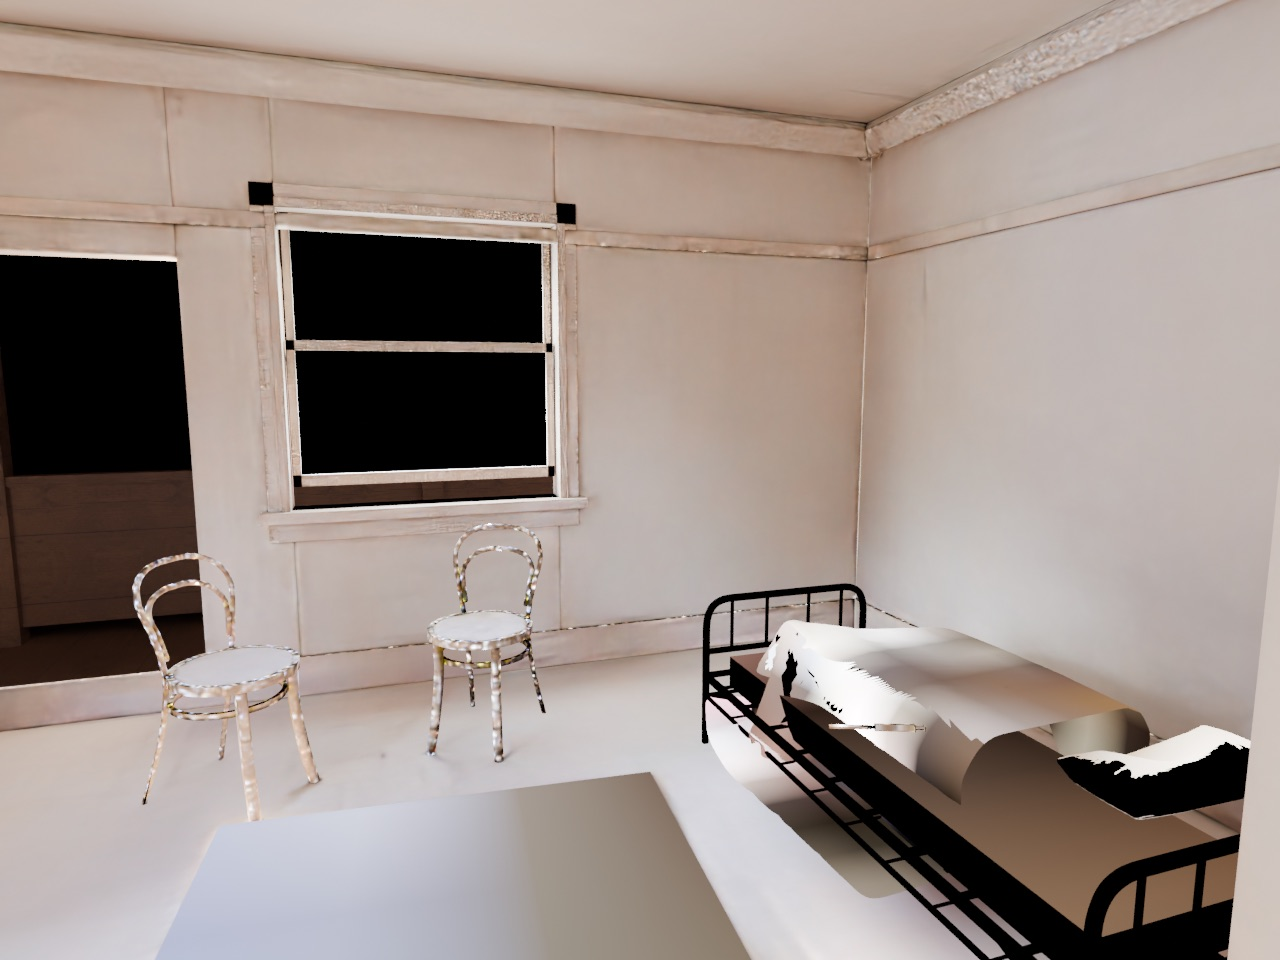
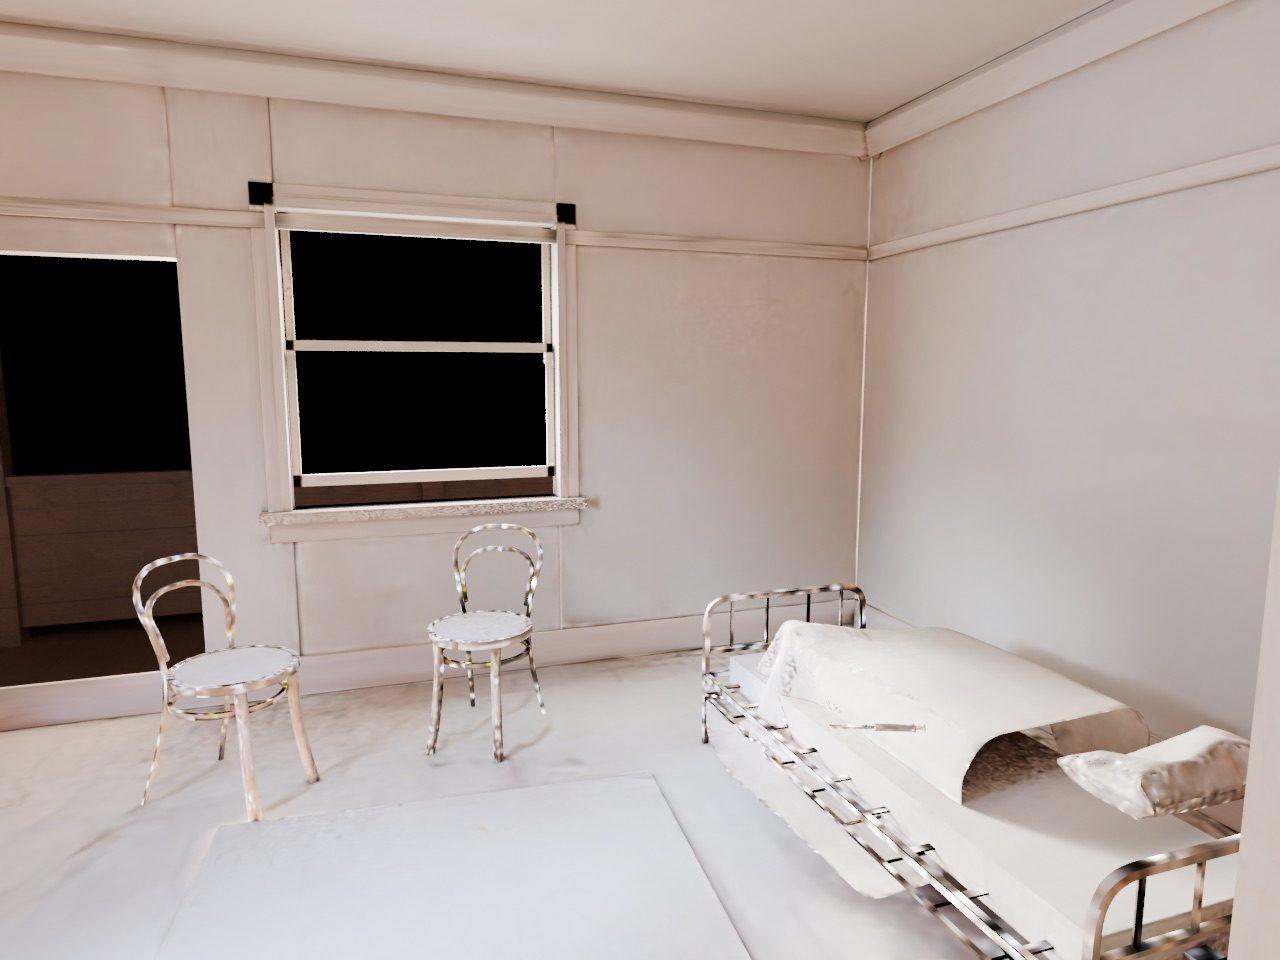
Step 5: the bake lands, packed by hand
The final pass is done. 256 samples, Diffuse Indirect, denoised, three 2048 EXRs
in assets/bake. 107s, 116s and 182s on Metal, so under seven minutes for the lot.

**The pack is arithmetic now, not an operator.** `smart_project` plus
`pack_islands` over a whole group in multi object edit mode is the documented
way to build a shared atlas and it silently did not do it: most objects packed,
the bed and the wardrobe came out still holding the whole 0-1 square each,
landed on top of everything else, and baked to pure black. Nothing reported an
error and the atlas thumbnail looked fine.

So each object is unwrapped on its own, which is the case that works, and then
its UVs are squeezed into a cell by hand. Cells are handed out by the square
root of world surface area, so texel density comes out roughly even: the floor
gets a large cell because it is four and a half square metres and a drawer knob
gets a small one because it is not. A fixed grid would give both the same and
spend most of the map on the knob. Two texels of inset per cell so a filtered
sample near an edge cannot reach into its neighbour.

Verified by putting the map back on the geometry as emission with everything
else muted, which is what `preview()` is for and what found all of this. Every
surface in the room now carries light, the corners darken, and there is contact
shading under the bed and the chairs.

One thing the preview also found: the wardrobe was 0.11 through the hall wall.
[…]

diff --git a/tools/blender/bake_room1a.py b/tools/blender/bake_room1a.py
@@ -122,9 +122,62 @@ def _select(objects):
     bpy.context.view_layer.objects.active = objects[0]
 
 
+def _world_area(ob) -> float:
+    """Surface area in square metres, near enough for handing out texels."""
+    local = sum(p.area for p in ob.data.polygons)
+    sx, sy, sz = ob.matrix_world.to_scale()
+    return local * abs(sx * sy * sz) ** (2 / 3)
+
+
+def _shelf(sides, fill=0.72):
+    """
+    Lay squares out in rows, biggest first, and return a cell per square.
+
+    A shelf packer wastes the ragged end of every row and that is fine. What it
+    does not do is fail quietly, which is the whole reason it is here.
+    """
+    order = sorted(range(len(sides)), key=lambda i: -sides[i])
+    scale = (fill / max(sum(s * s for s in sides), 1e-9)) ** 0.5
+
+    while True:
+        cells = {}
+        x = y = row_h = 0.0
+        ok = True
+        for i in order:
+            s = min(sides[i] * scale, 1.0)
+            if x + s > 1.0:
+                x, y = 0.0, y + row_h
+                row_h = 0.0
+            if y + s > 1.0:
+                ok = False
+                break
+            cells[i] = (x, y, s)
+            x += s
+            row_h = max(row_h, s)
+        if ok:
+            return cells
+        scale *= 0.9
+
+
 def unwrap(objects) -> None:
     """
-    A second UV set per group, packed as one atlas.
+    A second UV set per group, packed into one atlas by hand.
+
+    This used to be `smart_project` and `pack_islands` over the whole group in
+    multi object edit mode, which is the documented way to build a shared atlas
+    and which silently did not do it. Most objects packed; the bed and the
+    wardrobe came out still holding the whole 0-1 square each, landed on top of
+    everything else, and baked to pure black. Nothing reported an error.
+
+    So the pack is done here instead, and it is arithmetic rather than an
+    operator. Each object is unwrapped on its own, which is the reliable path,
+    and then its UVs are squeezed into a cell of the atlas.
+
+    Cells are handed out by **square root of world surface area**, so texel
+    density comes out roughly even: the floor gets a large cell because it is
+    four and a half square metres, a drawer knob gets a small one because it is
+    not. A fixed grid would give both the same and waste most of the map on the
+    knob.
 
     `active_render` stays on the original UV map, because that is what the
     wallpaper and the boards are mapped through. `active` moves to the lightmap,
@@ -137,16 +190,38 @@ def unwrap(objects) -> None:
             layer.active_render = layer.name != LIGHTMAP_UV
         uvs.active = lm
 
-    _select(objects)
-    with bpy.context.temp_override(**_override()):
-        bpy.ops.object.mode_set(mode="EDIT")
-        bpy.ops.mesh.select_all(action="SELECT")
-        # Angle based, then packed across every object in the group at once.
-        # Per object packing would give each of them the whole 0-1 square and
-        # they would land on top of each other in the atlas.
-        bpy.ops.uv.smart_project(angle_limit=1.15, island_margin=0.012)
-        bpy.ops.uv.pack_islands(margin=0.006)
-        bpy.ops.object.mode_set(mode="OBJECT")
+    # One object at a time. Per object is the case that works.
+    for ob in objects:
+        _select([ob])
+        with bpy.context.temp_override(**_override()):
+            bpy.ops.object.mode_set(mode="EDIT")
+            bpy.ops.mesh.select_all(action="SELECT")
+            bpy.ops.uv.smart_project(angle_limit=1.15, island_margin=0.02)
+            bpy.ops.object.mode_set(mode="OBJECT")
+
+    sides = [max(_world_area(ob), 1e-6) ** 0.5 for ob in objects]
+    cells = _shelf(sides)
+
+    # A texel of inset per cell, so a filtered sample near an edge cannot reach
+    # into the neighbour. The bake margin bleeds outward inside the cell; this
+    # is what stops it bleeding into somebody else's.
+    inset = 2.0 / SIZE
+    for i, ob in enumerate(objects):
+        x, y, s = cells[i]
+        lm = ob.data.uv_layers[LIGHTMAP_UV]
+        n = len(lm.uv)
+        buf = np.empty(n * 2, dtype=np.float32)
+        lm.uv.foreach_get("vector", buf)
+        uv = buf.reshape(-1, 2)
+        # Whatever smart_project gave back, normalise it to 0-1 first: it packs
+        # to the square but does not promise to fill it.
+        lo = uv.min(axis=0)
+        span = np.maximum(uv.max(axis=0) - lo, 1e-6)
+        uv = (uv - lo) / span
+        span_s = max(s - 2 * inset, 1e-6)
+        uv = uv * span_s + np.array([x + inset, y + inset], dtype=np.float32)
+        lm.uv.foreach_set("vector", uv.ravel())
+        ob.data.update()
 
 
 def bake_target(objects, image):

diff --git a/tools/blender/build_room1a.py b/tools/blender/build_room1a.py
@@ -476,7 +476,10 @@ def build_sash(timber, glass):
 # rot: yaw applied before measuring. at: footprint centre. on: what the base
 # sits on, floor unless it is standing on the dresser.
 FURNITURE = {
-    "wardrobe": {"fit": ("z", 2.05), "rot": math.pi, "at": (-2.0, 2.0)},
+    # 1.86, not room1a.ts's 2.02. The kit wardrobe was 0.55 deep and the
+    # sourced one is 0.82, so the old centre put its back 0.11 through the hall
+    # wall. Furniture goes where its back lands, not where its middle does.
+    "wardrobe": {"fit": ("z", 2.05), "rot": math.pi, "at": (-2.0, 1.86)},
     "bed": {"fit": ("y", 2.0), "rot": math.pi, "at": (-1.45, -0.15)},
     "dresser": {"fit": ("z", 1.42), "rot": -math.pi / 2, "at": (2.15, 0.90)},
     "bedside": {"fit": ("z", 0.62), "rot": 0.0, "at": (2.20, -0.10)},
